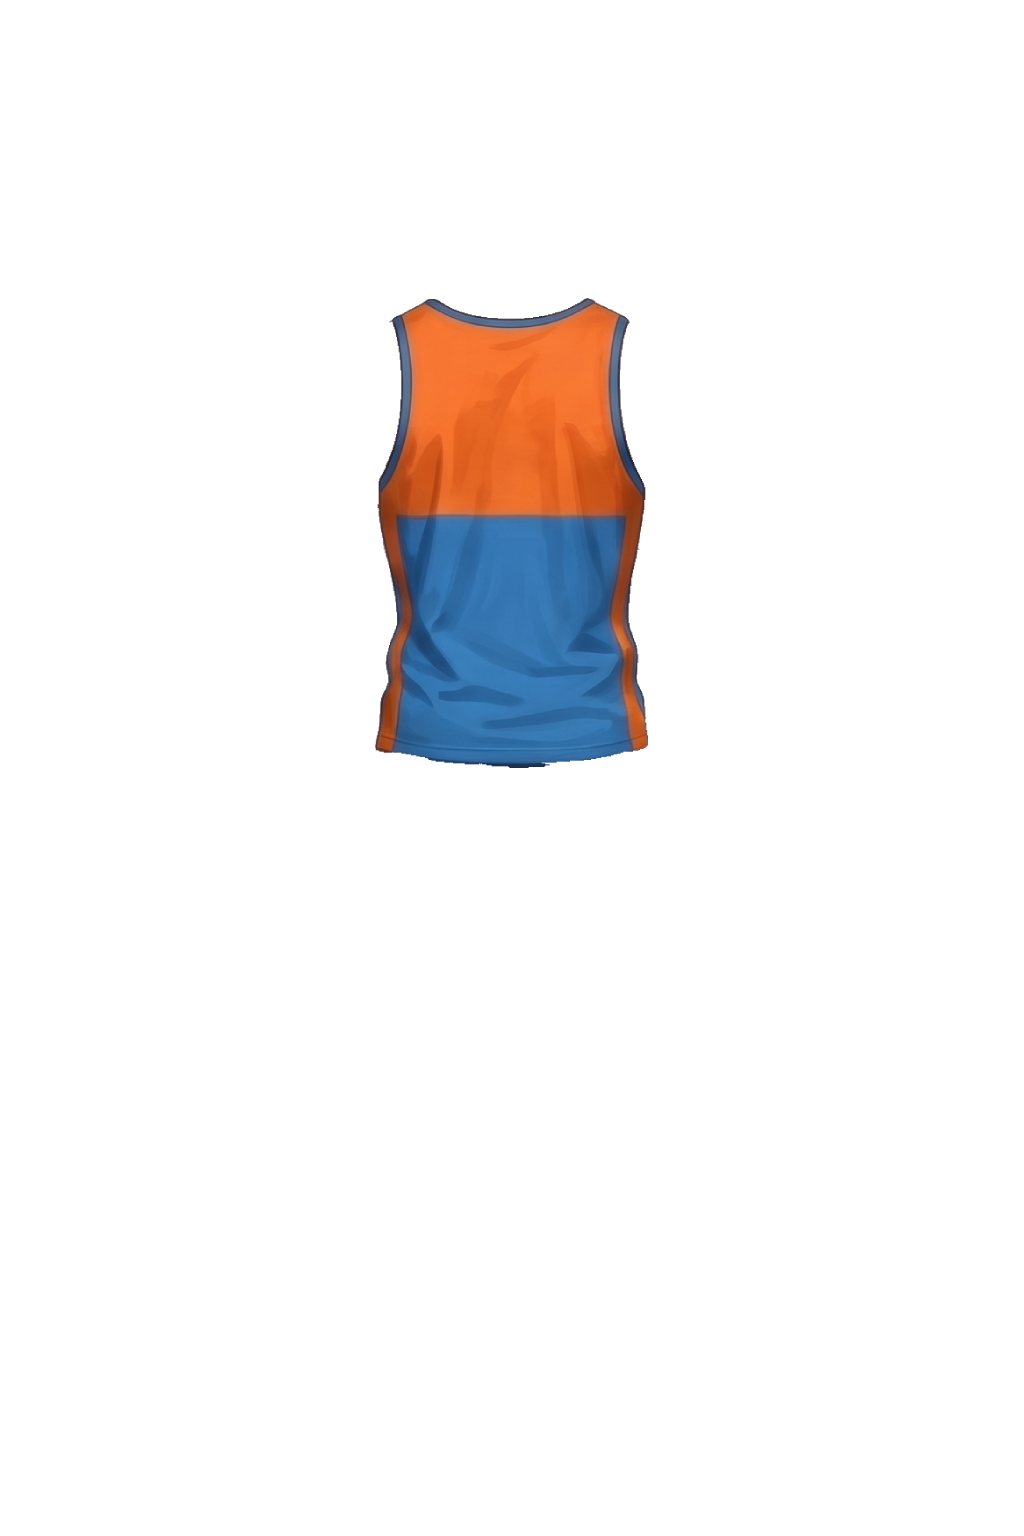
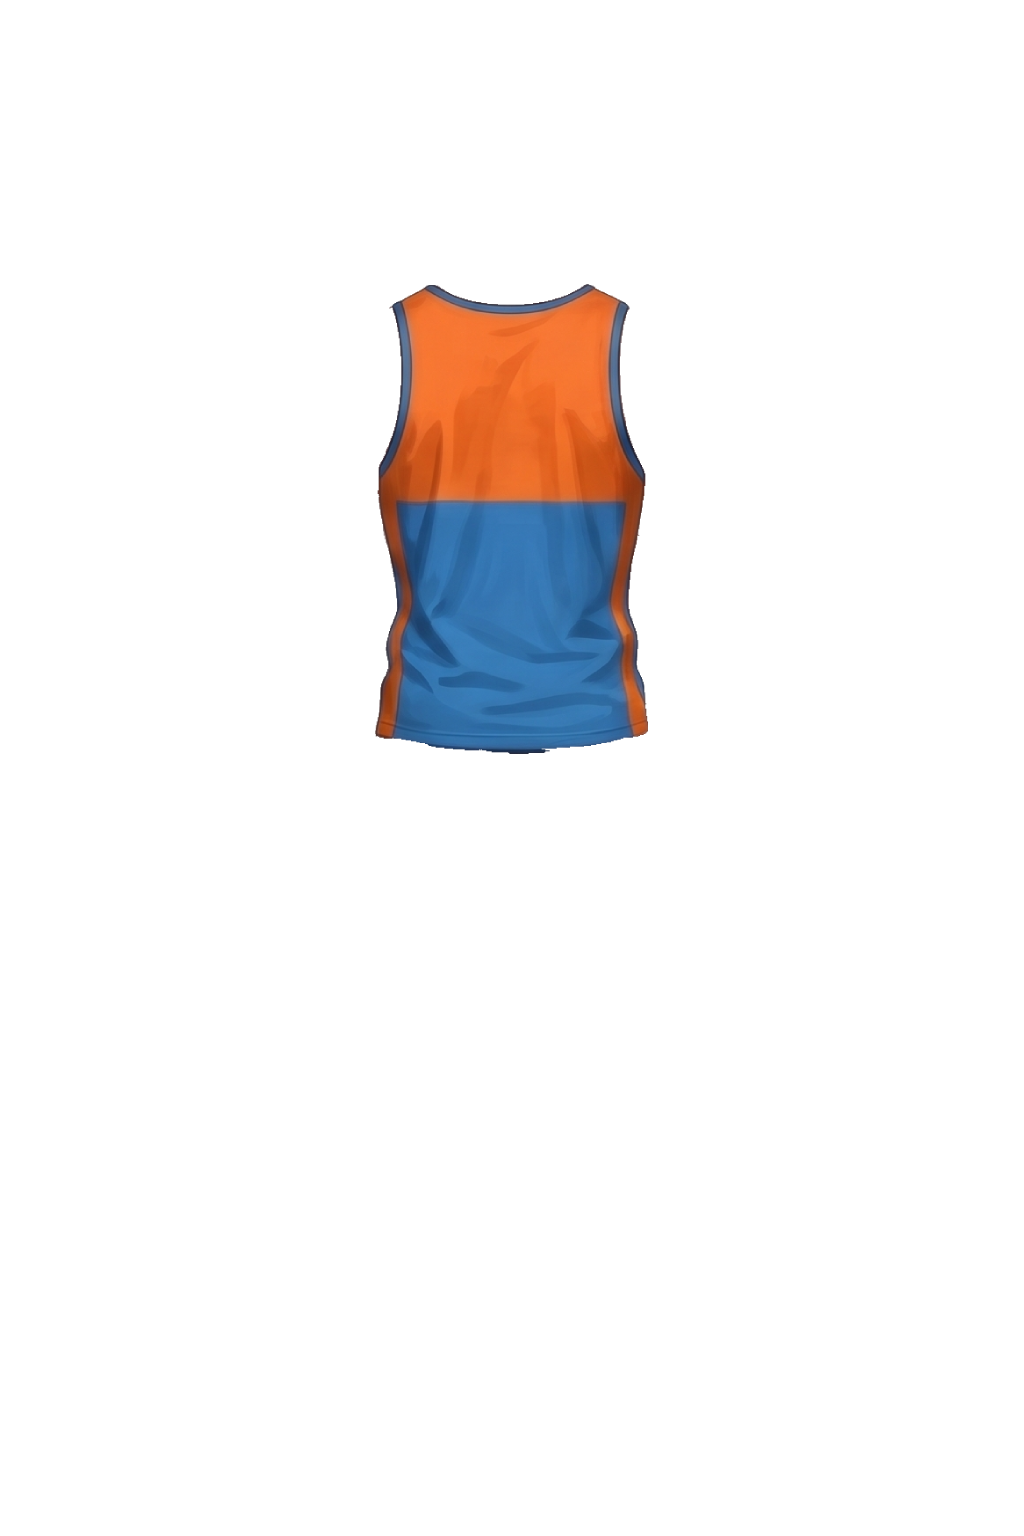
Race back view: four skin tones with a still trunk; tank top fitted (#159)
The owner's men's bodies in four tones are in the engine (Studio, #158).
This brings tone 3 in line with the others (the owner's newer frames 2 and
3, with the trunk still), moves the head and neck of frames 2 and 3 of every
tone down 4 to 7 px so the head stays put like the shoulders, moves the tank
top's frame 3 up 14 px to fit (it was drawn on the earlier tone 3, whose trunk
dropped), and clears a few stray pixels from its cut-out.

Claude-Session: https://claude.ai/code/session_013V7FcqZb4pzQ6F4QidmAG4

Changed region(s): [[0.3438, 0.1875, 0.6562, 0.5]]

diff --git a/src/features/race-demo/raceDemo.test.ts b/src/features/race-demo/raceDemo.test.ts
@@ -162,7 +162,7 @@ describe('race back view: runner art', () => {
   })
 
   it('reads the owner\'s three drawn frames as a stride of six', () => {
-    for (const tone of [2, 3]) expect(strideFrames(drawnFrames(`runner/bodies/men_body_tone${tone}`, (key) => artUrl(key) !== undefined))).toBe(6)
+    for (const tone of [1, 2, 3, 4]) expect(strideFrames(drawnFrames(`runner/bodies/men_body_tone${tone}`, (key) => artUrl(key) !== undefined))).toBe(6)
   })
 
   it('finds the owner\'s first body in the art folder', () => {

diff --git a/docs/RACE_BACK_VIEW_DEMO.md b/docs/RACE_BACK_VIEW_DEMO.md
@@ -118,14 +118,15 @@ in the names any more. Trail Studio uploads with `_back` at the end of the name
 (`lvl1_men_head_tone3_back.png`) and stores it without it.
 
 **In the game now:**
-- `runner/bodies/men_body_tone3_f1` to `_f3`, `runner/heads/lvl1_men_head_tone3` and
-  `runner/clothing/lvl3_men_shirt_f1` to `_f3` (a tank top, one per frame): the owner's first full
-  set of 26 November 2026, in its final style. The demo's player wears it. In `_f2` and `_f3`
-  Claude moved the head and neck down 8 and 15 px (cut at the neck, blended) so they follow the
-  shoulders, as the owner approved.
-- `runner/bodies/men_body_tone2_f1` to `_f3`: the first test body (24 November 2026), in an earlier
-  style and slightly higher on the canvas; the rivals use it until the other tones arrive in the
-  new style.
+- `runner/bodies/men_body_tone1_f1` to `men_body_tone4_f3`: the owner's men's bodies in the four skin
+  tones, three frames each (26 November 2026), with the same silhouette in every tone, so one shirt
+  fits all four. The trunk is still between frames; in `_f2` and `_f3` Claude moved the head and neck
+  down 4 to 7 px (cut at the neck, blended) so the top of the head stays where it is in `_f1`.
+- `runner/heads/lvl1_men_head_tone3`: the level 1 hair in tone 3.
+- `runner/clothing/lvl3_men_shirt_f1` to `_f3`: the level 3 tank top, one per frame. Claude moved
+  `_f3` up 14 px to fit the bodies above (it was drawn on an earlier tone 3 whose trunk dropped) and
+  cleared a few stray pixels left by the cut-out.
+- The demo's player is tone 3 with the hair and the tank top; each rival has its own skin tone.
 
 **Appearance ids:** the demo's rivals still carry placeholder ids (`red`, `short-dark`…) with no
 art. When this view is connected to the game, the appearance will use the avatar's ids (sex, skin,
